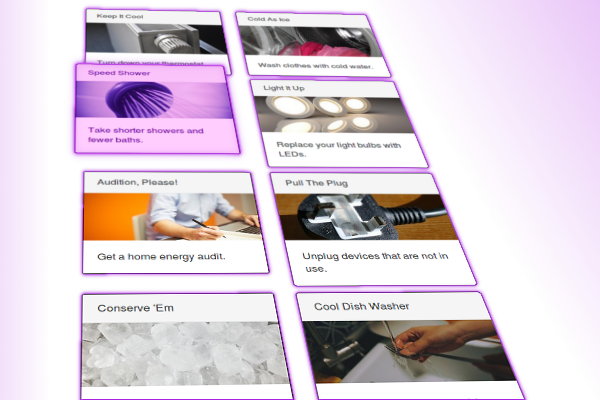
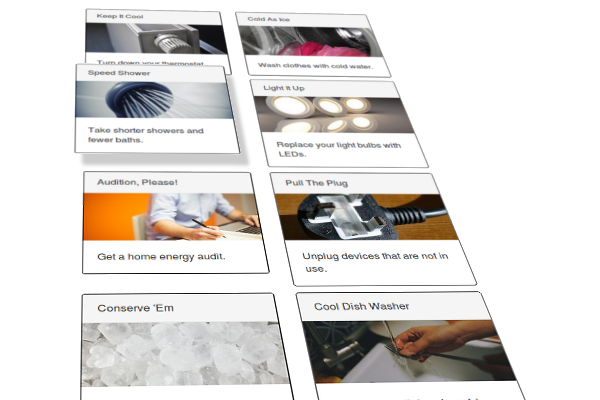
Rebranded to green colors cheme

diff --git a/app/assets/stylesheets/commitments.scss b/app/assets/stylesheets/commitments.scss
@@ -2,6 +2,10 @@
 // They will automatically be included in application.css.
 // You can use Sass (SCSS) here: http://sass-lang.com/
 
+
+$info_pane_background_color: #F6F6F6;
+$info_pane_border_color: #DDD;
+
 // share buttons
 .btn-fb {
   color: #fff;
@@ -23,7 +27,8 @@
 
 // style the highlight box
 #highlight, .info-pane:not(.clearfix) {
-  background-color:lightgray;
+  background-color: $info_pane_background_color;
+  border: 1px solid $info_pane_border_color;
   padding-top:15px;
   margin-bottom: 15px;
   border-radius: 8px;
@@ -39,6 +44,19 @@
   
   .submit-action {
     margin-top: -50px;
+  }
+  
+  
+  // tiny triangle underneath pane indicates current card
+  div.triangle > div {
+    
+    border-top: 10px solid $info_pane_border_color;
+    border-left: 10px solid transparent;
+    border-right: 10px solid transparent;
+    
+    // adjust position so that triangle aligns with pane's border
+    position: relative;
+    top: 1px; 
   }
 }
 
